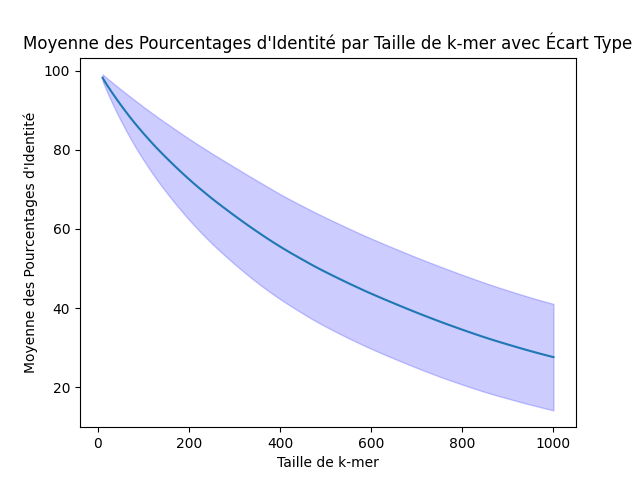
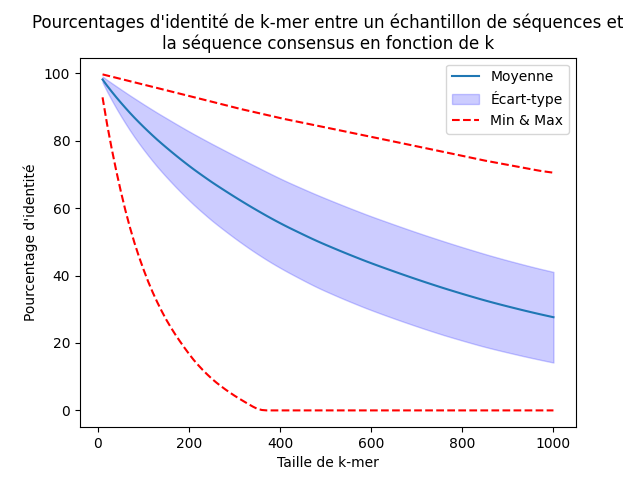
Class Aligner without alignment of new sequences

diff --git a/aligner.py b/aligner.py
@@ -1,0 +1,85 @@
+import numpy as np
+import parasail
+
+
+class Aligner:
+
+	COMPOSITION = ["A", "C", "G", "T", "-"]
+
+	def __init__(self, consensus, composition, nb_seq, kmer=200):
+		self.kmer_size = kmer
+		self.nb_sequences = nb_seq
+		self.consensus = consensus
+		self.composition = np.array(composition, dtype=int)
+		self.kmer_consensus = self.kmers_from_sequence(self.consensus, self.kmer_size)
+
+	@staticmethod
+	def kmers_from_sequence(sequence, k, step=1):
+		kmers = []
+		for i in range(0, len(sequence), step):
+			kmer = sequence[i:i + k]
+			if len(kmer) == k:
+				kmers.append(kmer)
+		return set(kmers)
+
+	def add_aligned_sequence(self, sequence):
+		for position, nucleotide in enumerate(sequence):
+			if nucleotide in self.COMPOSITION:  # Les N ne sont pas pris en compte
+				self.composition[position, self.COMPOSITION.index(nucleotide)] += 1
+		self.nb_sequences += 1
+
+	def update_consensus(self):
+		max_indices = self.composition.argmax(axis=1)
+		self.consensus = ''.join(self.COMPOSITION[index] for index in max_indices)
+
+	def prevalence(self, position):
+		column = self.composition[position]
+		total = column.sum()
+		if total == 0:
+			return None
+		prevalence = (column.max() / total) * 100
+		return prevalence
+
+	def occupancy(self, position):
+		column = self.composition[position]
+		print(column[-1])
+		nb_nuc_total = column.sum() - column[-1]
+		occupancy = (nb_nuc_total / self.nb_sequences) * 100
+		return occupancy
+
+	def add_gap(self, position):
+		gap_column = np.zeros((self.composition.shape[0]), dtype=int)
+		gap_column[-1] = 1
+		self.composition = np.insert(self.composition, position, gap_column, axis=0)
+
+	def align_new_sequence(self, new_seq):
+		kmer_new_seq = self.kmers_from_sequence(new_seq, self.kmer_size)
+		common_kmers = self.kmer_consensus.intersection(kmer_new_seq)
+
+		for kmer in common_kmers:
+			start_consensus = self.consensus.find(kmer)
+			start_new_seq = new_seq.find(kmer)
+
+
+if __name__ == "__main__":
+	test_cons = "ATG-C"
+	test_comp = [[2, 0, 0, 0, 0],
+	             [0, 0, 0, 2, 0],
+	             [0, 0, 2, 0, 0],
+	             [0, 0, 0, 0, 2],
+	             [0, 2, 0, 0, 0]]
+	test = Aligner(test_cons, test_comp, 2, kmer=2)
+	print(test.consensus)
+	print(test.composition)
+	test.add_aligned_sequence("ACG-C")
+	test.add_aligned_sequence("ACG-N")
+	test.update_consensus()
+	print(test.consensus)
+	print(test.composition)
+	test.add_gap(2)
+	test.update_consensus()
+	print(test.consensus)
+	print(test.composition)
+	print(test.prevalence(1))
+	print(test.occupancy(4))
+	print(test.kmer_consensus)

diff --git a/Identity_pourcentage.py b/Identity_pourcentage.py
@@ -1,7 +1,7 @@
 from Extract_fasta import Fasta_extract
-
 import numpy as np
 import matplotlib.pyplot as plt
+import textwrap
 
 
 class SequenceAnalyser:
@@ -10,9 +10,9 @@ class SequenceAnalyser:
 		self.list_sequences = list_sequences
 
 	@staticmethod
-	def kmers_from_sequence(sequence, k):
+	def kmers_from_sequence(sequence, k, step=1):
 		kmers = []
-		for i in range(0, len(sequence)):
+		for i in range(0, len(sequence), step):
 			kmer = sequence[i:i + k]
 			if len(kmer) == k:
 				kmers.append(kmer)
@@ -42,14 +42,21 @@ class SequenceAnalyser:
 	def build_graph_pourcentage_communs(self, pourcentages_list, list_k_sizes, title):
 		moyennes = [np.mean(p) for p in pourcentages_list]
 		ecarts_types = [np.std(p) for p in pourcentages_list]
+		mininum = [min(p) for p in pourcentages_list]
+		maximum = [max(p) for p in pourcentages_list]
 
-		plt.plot(list_k_sizes, moyennes)
+		plt.plot(list_k_sizes, moyennes, label="Moyenne")
 		plt.fill_between(list_k_sizes, np.array(moyennes) - np.array(ecarts_types),
-		                 np.array(moyennes) + np.array(ecarts_types), color='blue', alpha=0.2)
+		                 np.array(moyennes) + np.array(ecarts_types), color='blue', alpha=0.2, label="Écart-type")
+		plt.plot(list_k_sizes, mininum, color='r', linestyle='--', label="Min & Max")
+		plt.plot(list_k_sizes, maximum, color='r', linestyle='--')
 
-		plt.title("Moyenne des Pourcentages d'Identité par Taille de k-mer avec Écart Type")
+		fig_title = textwrap.fill("Pourcentages d'identité de k-mer entre un échantillon de séquences et la séquence "
+		                      "consensus en fonction de k", width=70)
+		plt.title(fig_title)
 		plt.xlabel("Taille de k-mer")
-		plt.ylabel("Moyenne des Pourcentages d'Identité")
+		plt.ylabel("Pourcentage d'identité")
+		plt.legend()
 
 		plt.savefig(title)
 		plt.close()
